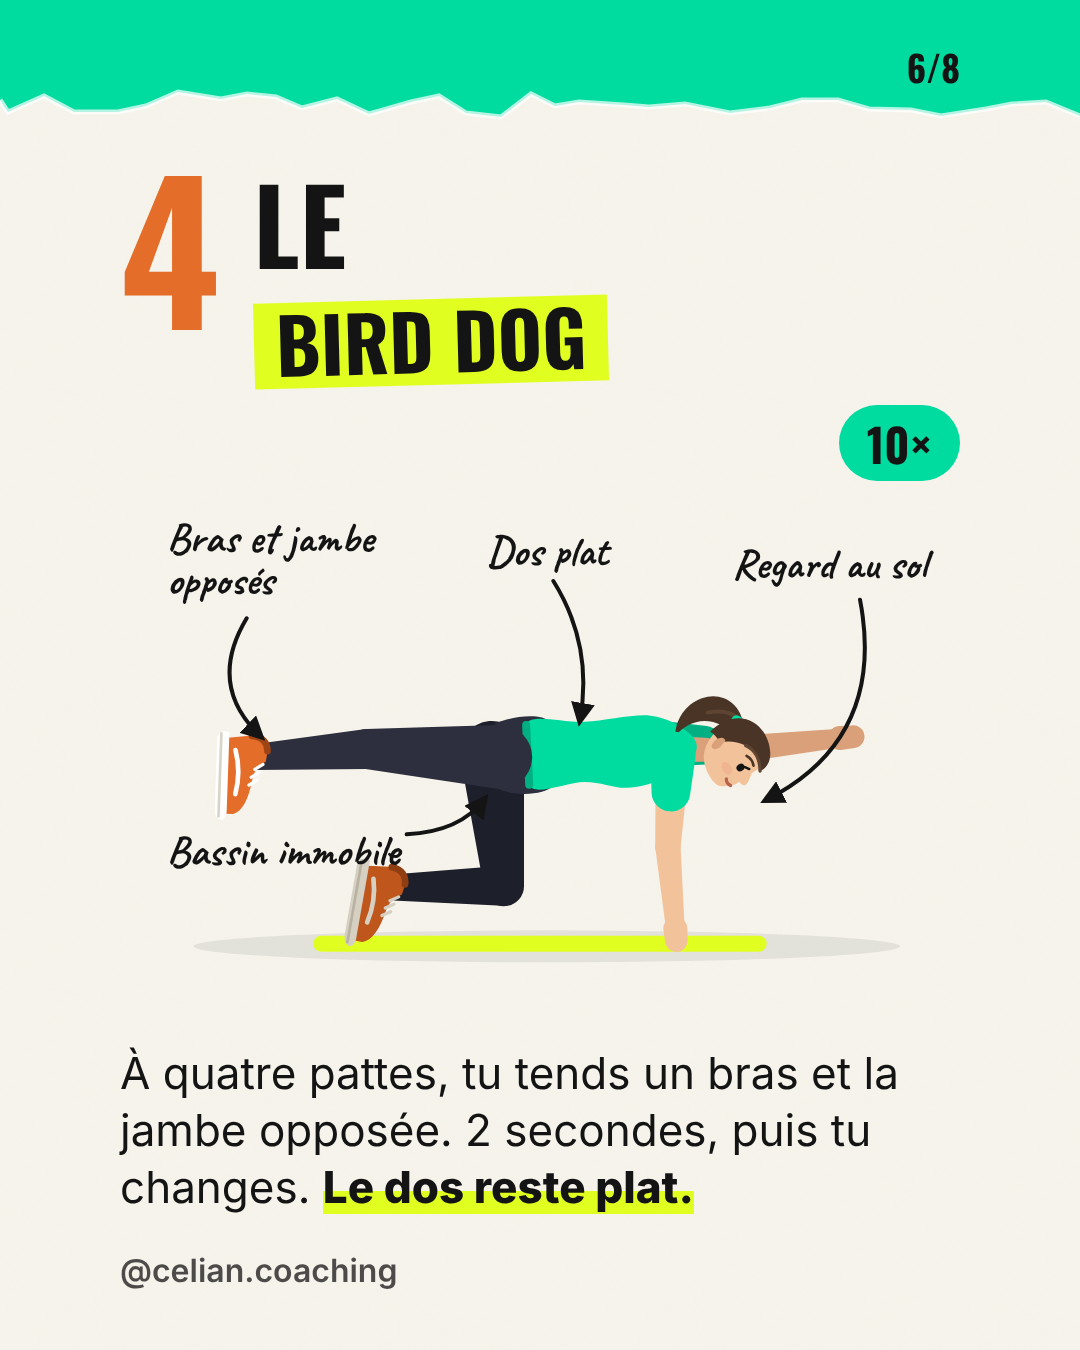
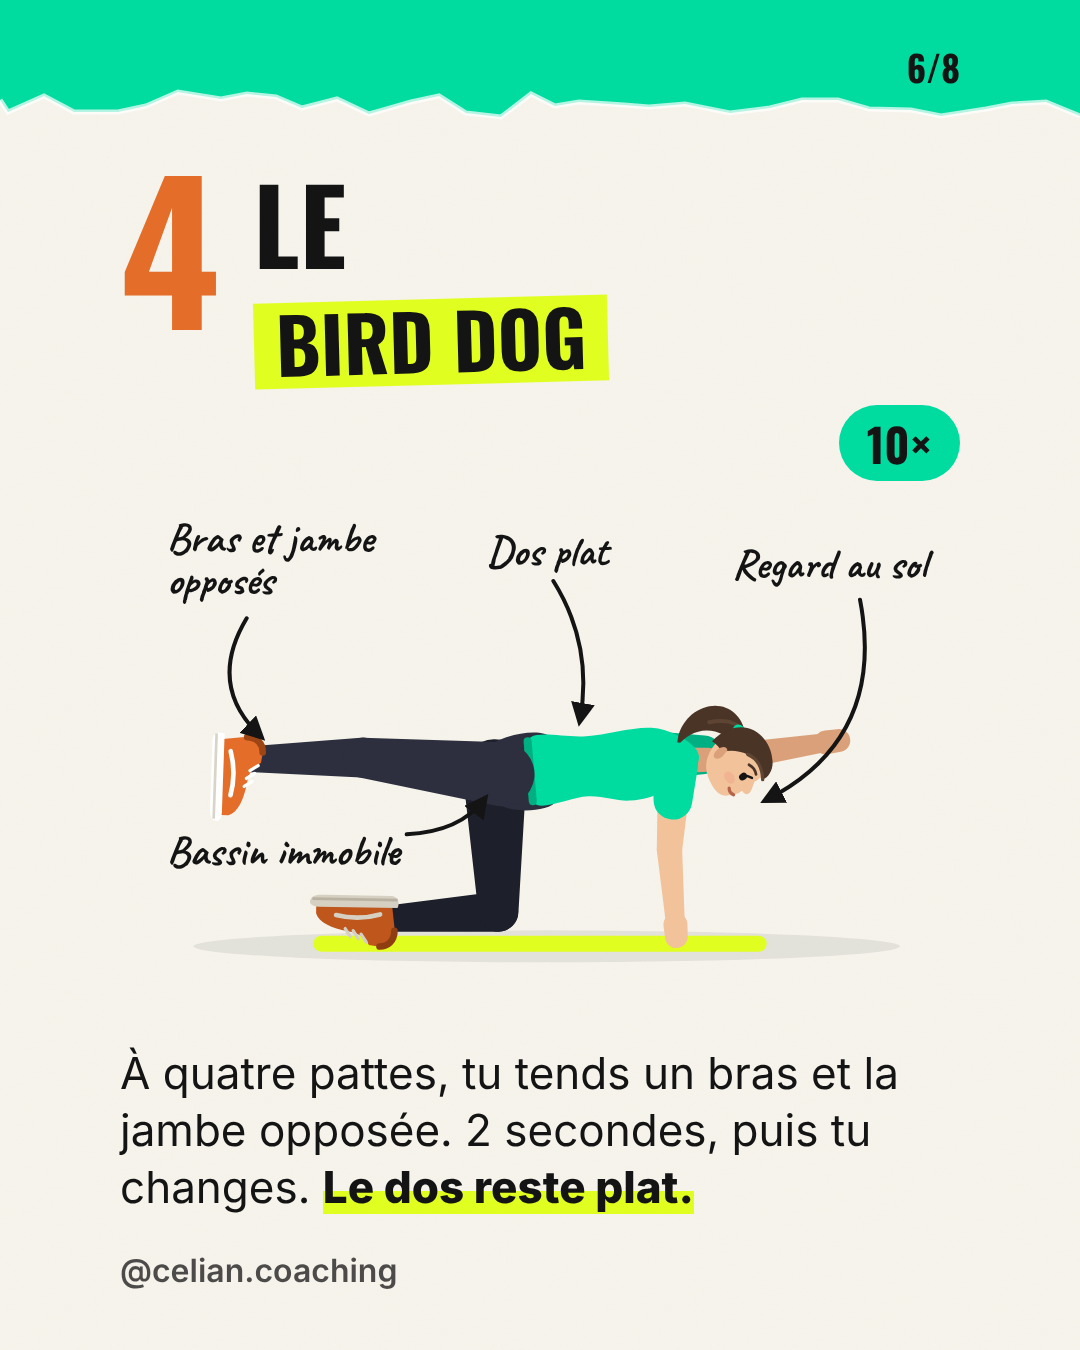
Carousel 01: bird dog knee on the floor with foot extended, straight legs in plank
Claude-Session: https://claude.ai/code/session_01EmtKGbXg2Rz9u67xYLS3c3

Changed region(s): [[0.1833, 0.4978, 0.7944, 0.6222], [0.275, 0.5911, 0.4889, 0.7156]]

diff --git a/.claude/instagram/carrousels/01-4-mouvements/slides.html b/.claude/instagram/carrousels/01-4-mouvements/slides.html
@@ -270,7 +270,7 @@ function personne(p) {
 
 // squelette aux proportions fixes : on donne le bassin, l'angle du buste,
 // et où vont mains et chevilles ; coudes et genoux se placent tout seuls.
-const L = { tronc: 130, cou: 44, bras: 70, avantBras: 62, cuisse: 100, tibia: 95, pied: 36 };
+const L = { tronc: 130, cou: 44, bras: 64, avantBras: 56, cuisse: 106, tibia: 95, pied: 36 };
 const vec = (deg, l) => [Math.cos(deg * Math.PI / 180) * l, Math.sin(deg * Math.PI / 180) * l];
 function ik(a, cible, l1, l2, pli) {
   const d = Math.min(Math.hypot(cible[0] - a[0], cible[1] - a[1]), l1 + l2 - .5);
@@ -336,11 +336,11 @@ const POSES = {
   gainage: {
     decor: () => ombreSol(50, 550) + tapis(40, 560),
     s: {
-      dir: 1, hanche: [288, 330], tronc: -8, regard: 4,
-      jambe: { cheville: [100, 362], pied: 112, pli: 1 },
-      jambeLoin: { cheville: [96, 358], pied: 112, pli: 1 },
-      bras: { main: [486, 384], pli: 1 },
-      brasLoin: { main: [474, 380], pli: 1 },
+      dir: 1, hanche: [288, 338], tronc: -8, regard: 4,
+      jambe: { cheville: [30, 374], pied: 112, pli: 1 },
+      jambeLoin: { cheville: [24, 370], pied: 112, pli: 1 },
+      bras: { main: [480, 388], pli: 1 },
+      brasLoin: { main: [468, 384], pli: 1 },
     },
     notes: () => note(30, 180, ['Bassin aligné'], [120, 194], [282, 300], [220, 200])
       + note(290, 120, ['Ventre serré'], [350, 132], [350, 320], [410, 220])
@@ -349,9 +349,9 @@ const POSES = {
   birddog: {
     decor: () => ombreSol(40, 570) + tapis(130, 470),
     s: {
-      dir: 1, hanche: [270, 264], tronc: -3, regard: 10, nuque: 6,
+      dir: 1, hanche: [272, 277], tronc: -5, regard: 10, nuque: 6,
       jambe: { cheville: [60, 266], pied: 92, pli: 1 },
-      jambeLoin: { cheville: [178, 362], pied: 100, pli: -1 },
+      jambeLoin: { cheville: [174, 386], pied: 181, pli: -1 },
       bras: { main: [404, 420], pli: 1 },
       brasLoin: { main: [560, 246], pli: 1 },
     },
